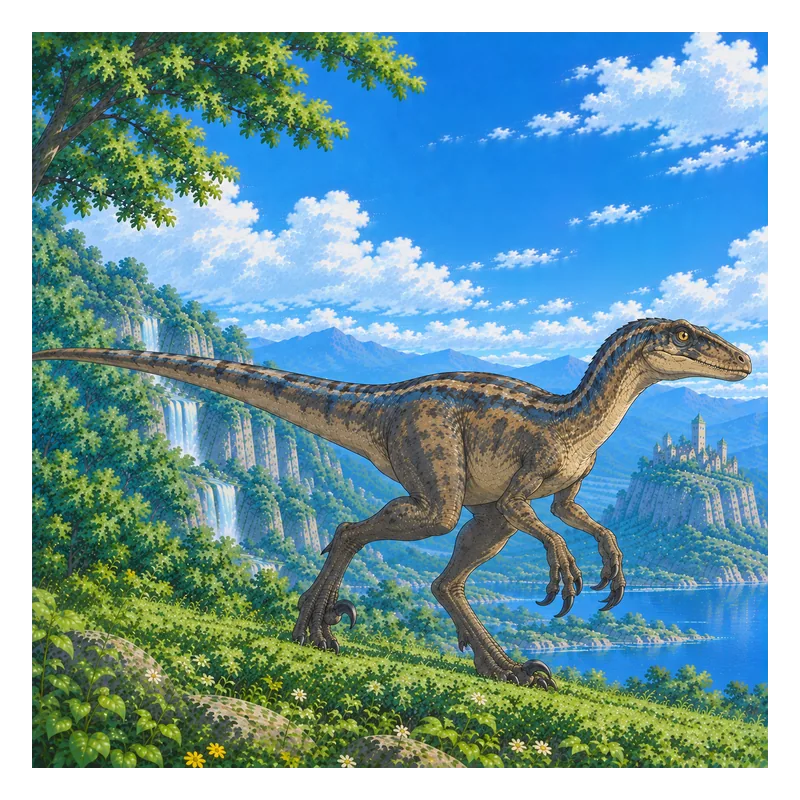
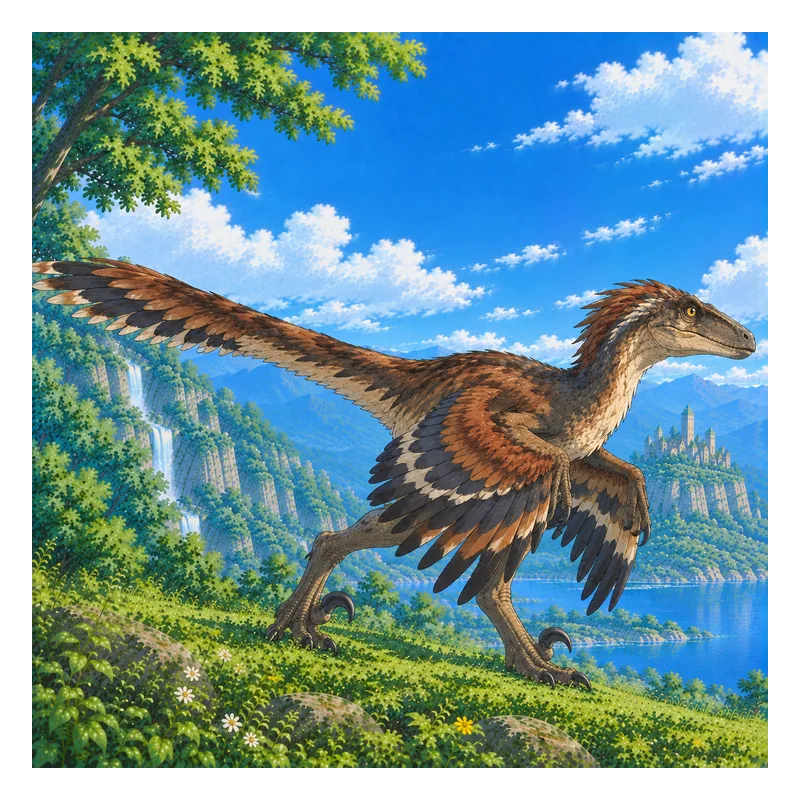
Dino's Ghibli Velociraptor is feathered now
The source was replaced and the card rebuilt — checked to face right,
nothing mirrored. It is the first Dino card to change under a path a
release had already shipped, so cacheVersion 5 → 6: a returning child
fetches that one picture again. Verified in a running app: the store
reopened at 6 and the Ghibli set came from the network.

diff --git a/apps/dino/src/audioCache.ts b/apps/dino/src/audioCache.ts
@@ -10,6 +10,9 @@
 import { createAudioCache } from '@sawt/audio-cache'
 
 /*
+ * 6: the Ghibli Velociraptor was replaced with a feathered one, at the path
+ * 0.43.0 shipped — same url, different bytes, so a returning child would
+ * keep the old picture without this.
  * 5: the Pteranodon card was flipped back — it had faced right all along,
  * its crest read as its head. Same path, different bytes, so a raise.
  * 4: two cards were mirrored in place to face right like the other eight —
@@ -29,4 +32,4 @@ export const {
 	idbClear,
 	getAudioBlob,
 	ensureCached,
-} = createAudioCache('dino-audio', 5)
+} = createAudioCache('dino-audio', 6)

diff --git a/apps/dino/art/ghibli/README.md b/apps/dino/art/ghibli/README.md
@@ -28,7 +28,7 @@ card in front of a child.
 | `parasaurolophus.png` | supplied 2026-09-25; prompt not recorded. Square. On a hillside above a lake, crest sweeping back, head to the right | generated with ChatGPT |
 | `spinosaurus.png` | supplied 2026-09-25; prompt not recorded. Square. Striding with the sail up, jaws to the right | generated with ChatGPT |
 | `triceratops.png` | supplied 2026-09-25, replaced the same day with a square version; prompt not recorded. Coming down a slope, horns and beak to the right | generated with ChatGPT |
-| `velociraptor.png` | supplied 2026-09-25, replaced the same day with a square version; prompt not recorded. Poised on a ridge, head to the right | generated with ChatGPT |
+| `velociraptor.png` | supplied 2026-09-25, replaced the same day with a square version, and again 2026-09-28 with a feathered one; prompt not recorded. Striding along a ridge, head to the right | generated with ChatGPT |
 | `gallimimus.png` | supplied 2026-09-25; prompt not recorded. Square. Running across a flowered slope, head to the right | generated with ChatGPT |
 
 On licence: images generated with ChatGPT carry no third-party attribution

diff --git a/CHANGELOG.md b/CHANGELOG.md
@@ -72,6 +72,10 @@ Open questions carried in:
     they are found
 
 In this version so far:
+  · **Dino's Ghibli Velociraptor is feathered now.** The source was replaced
+    and the card rebuilt — checked to face right, nothing mirrored. It is the
+    first Dino card to change under a path a release had already shipped, so
+    `cacheVersion` 5 → 6: a returning child fetches that one picture again.
   · **A feedback sheet, in every app.** 💬 beside the share link in ⚙ opens
     its own view — not a tab, since a form is a different kind of thing from
     a setting and should not sit under a panel that closes on any click
